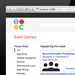
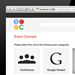
inline screenshots
added screenshots inline on detailed project views

diff --git a/themes/templates/project_ext.html b/themes/templates/project_ext.html
@@ -8,45 +8,35 @@
 				<div class="content-projectc">
 						<div class="project-meta">
 							<div class="project-meta-data project-date clearfix">
+							
+							{% if finalScreenShotList %}
+							<div class="project-v2-screenshots">
+								<div class="project-sub-head screenshot-mod">Screenshots</div>
+									<div class="popup-gallery">			      
+									
+									{% for screenshot in finalScreenShotList %}
+  									<div class="screenshot-box">
+  									<a href="{{ screenshot.1 }}" title="{{ screenshot.0 }}">
+  									<img class="project-screen" src="{{ screenshot.2 }}" width="75" height="75"></a>
+  									</div>
+  									{% endfor %}
+  			
+  									
+  								</div>
+  							</div>
+  							{% endif %}
+							
 								<div class="project-meta-heading">DATE</div>
 								<div class="project-meta-description project-exdate">{{ projectDates }}</div>
 								<div class="small-clear">
 								<div class="project-meta-heading">ORGANIZATION 
 								  <span class="project-comp">{{ projectCompany }}</span>
 								</div>
-								<div class="project-meta-description project-exclient"></div>
-								</div>
-							</div>
-						</div>
-						
-				    <div class="project-meta-heading p-artifact p-summary">PROJECT SUMMARY</div>
-					<div class="project-description no-picture">{{ projectSummary|safe }}</div>
-					
-					<!-- <div class="project-meta-heading p-artifact p-summary">DESIGN PROCESS FOLLOWED</div>
-					<div class="project-description no-picture">
-						{% if projectDesignProcess %}
-  							{{ projectDesignProcess|safe }}
-						{% else %}
-  							<span>I'm still typing up the design process that was used for this particular project.</span>			
-						{% endif %}					
-					</div> !-->
-					
-					<div class="project-meta-heading p-artifact p-summary">SCREENSHOTS</div>
-					<div class="project-description no-picture">
-						<div class="popup-gallery">			      
-							{% if finalScreenShotList %}
-  								{% for screenshot in finalScreenShotList %}
-  									<a href="{{ screenshot.1 }}" title="{{ screenshot.0 }}">
-  									<img class="project-screen" src="{{ screenshot.2 }}" width="75" height="75"></a>
-  								{% endfor %}
-							{% else %}
-  								<span>Screenshots are unavailable for this project.</span>
-							{% endif %}
-					      </div>
-      				</div>
-      				
-      				<div class="project-meta-heading p-artifact">ARTIFACTS & DELIVERABLES</div>
-					<div class="project-description no-picture artifact-footer">
+								<div class="project-meta-heading p-summary">PROJECT SUMMARY</div>
+								<div class="project-description no-picture">{{ projectSummary|safe }}</div>
+								
+								<div class="project-meta-heading p-artifact">ARTIFACTS & DELIVERABLES</div>
+					<div class="project-description no-picture artifact-bottom">
 					{% if artifactList %}
   						{% for artifact in artifactList %}
 						  <a href="{{ artifact.2 }}">{{ artifact.1 }}</a></span><br>
@@ -56,6 +46,17 @@
 					{% endif %}	
 									
 				</div>
+								
+							</div>
+						</div>
+						
+						
+						
+					</div>
+					
+
+      				
+      				
 			</div>	
 		</div>
 	</header>	

diff --git a/resources/css/style.css b/resources/css/style.css
@@ -748,13 +748,13 @@ body.doog-classic-has-welcome-text:not(.doog-classic-has-slideshow) .welcome-tex
 	}
 	
 		/* Project Meta */
-		.project-meta { text-transform: uppercase; color: #202020; float: left; position: relative; width: 100%; max-width: 800px; margin-bottom:20px; font-size: 90%;}
+		.project-meta { text-transform: uppercase; color: #202020; float: left; position: relative; width: 100%; /* max-width: 800px; */ font-size: 90%;}
 			.project-meta-col-1 { float: left; width: 310px; max-width: 310px; min-width: 310px; margin-right: 40px; }
 			.project-meta-col-2 { float: left; max-width: 310px; }
 				.project-meta-data { margin-bottom: 5px; font-size: 75%; }
 					.project-meta-heading { float: left; line-height: 100%; word-wrap: break-word; padding-right: 10px; font-family: "Open Sans", Arial, sans-serif; font-weight: 600; }
 					
-					.p-artifact { color: #202020; font-size: 70%; margin-bottom: 6px;}
+					.p-artifact { color: #202020; margin-bottom: 6px;}
 					.p-summary { float:left; clear:left; margin-top:4px; margin-bottom:5px;}
 					
 					.artifact-icon { /* font-family: ModernPictogramsNormal */ font-family:FontAwesome; font-size:23px; float:left; min-width:26px; text-align:center; margin-right:4px; }
@@ -815,7 +815,7 @@ body.doog-classic-has-welcome-text:not(.doog-classic-has-slideshow) .welcome-tex
 		@media (max-width: 850px){ .project-title { font-size: 500%; } }
 		
 		/* Project Description */
-		.project-description { font-family: "Open Sans", Arial, sans-serif; font-weight: 300; font-size: 60%; color: #333; width: 100%; clear: both; line-height: 145%; margin-bottom:40px;}
+		.project-description { font-family: "Open Sans", Arial, sans-serif; font-weight: 300; font-size: 92%; color: #333; width: 100%; clear: left; line-height: 145%; margin-bottom:40px;text-transform: none;}
 		
 		.no-picture { margin-bottom: 25px;}
 		
@@ -2012,4 +2012,55 @@ input#search-input:focus {
 }
 .comment-link > a:hover {
   color:#6e5baa;	
+}
+
+/* screenshot stuff */
+.project-v2-inline {float:left;}
+.project-v2-screenshots {
+	float:right;
+	/* background:#F3F6F6; */
+	padding: 0px 0px 10px 15px;
+	margin-left:20px;
+	margin-bottom:20px;
+	max-width:324px;
+	margin-top:-2px;
+}
+.screenshot-box {
+	float:left;
+	margin-left:5px;
+	margin-bottom:-2px;
+}
+.screenshot-box:nth-child(0n+5) {
+	margin-left:0px;
+}
+.screenshot-box:nth-child(0n+9) {
+	margin-left:0px;
+}
+.screenshot-box:first-child {
+	margin-left:0px;
+}
+.screenshot-mod {
+	margin-top:0px;
+	margin-bottom:0px;
+	/* margin-top:-25px; */
+	font-size:95%;
+	margin-top:-3px;
+	font-style:	italic;
+	font-weight: 400;
+	text-transform: none;
+}
+.p-summary {
+	margin-top:30px;
+}
+.artifact-bottom {
+	margin-bottom: 5px;
+}
+.popup-gallery {
+	/* border-top: 3px solid #d9dcdd; */
+	padding-top:5px;
+}
+@media (max-width: 950px) {
+	.project-v2-screenshots {
+		display:none;
+	}
 }

diff --git a/themes/templates/index_ext.html b/themes/templates/index_ext.html
@@ -246,7 +246,7 @@
 				</div>
 			
 				
-				<div class="element research" style="-webkit-transform: translate3d(225px, 465px, 0px);">
+				<!--<div class="element research" style="-webkit-transform: translate3d(225px, 465px, 0px);">
 					<a class="thumbnail-link" href="/project?projectName=lm-rss"></a>	
 					<p class="number">6</p>
 						<div class="thumbnail-meta-data-wrapper">
@@ -258,9 +258,9 @@
 						<div style="background-color: #6e5baa; width: 100%; height: 100%;" class="thumbnail-hover"></div>
 							<img class="project-img project-img-visible" src="./resources/images/projects/project-8.png" alt="RSS logo">
 					<div style="background-color: #6e5baa;"></div>
-				</div>
+				</div> !-->
 				
-				<div class="element ixd" style="-webkit-transform: translate3d(450px, 465px, 0px);">
+				<div class="element ixd" style="-webkit-transform: translate3d(225px, 465px, 0px);">
 					<a class="thumbnail-link" href="/project?projectName=mhcid-prototyping" ></a>	
 					<p class="number">2</p>
 						<div class="thumbnail-meta-data-wrapper">
